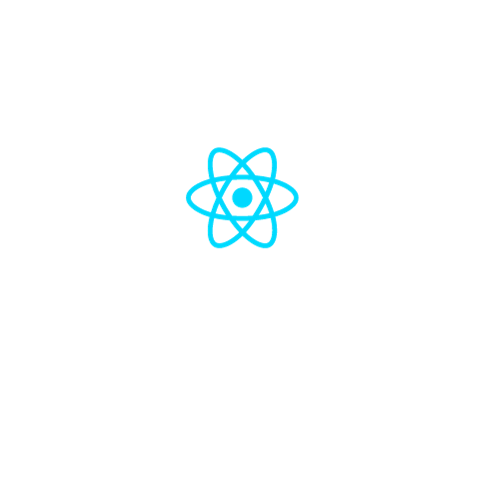
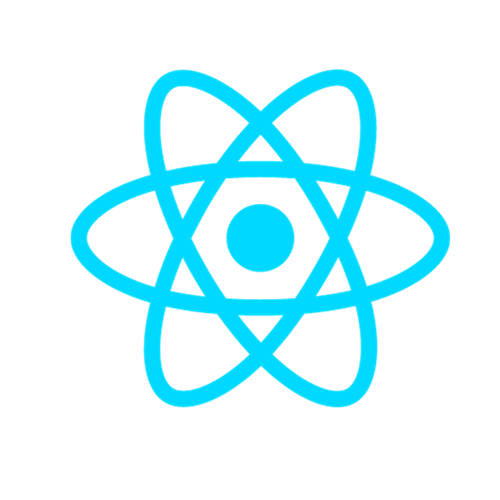
added 2 more circle

Changed region(s): [[0.12, 0.12, 0.9, 0.84]]

diff --git a/src/constants/images.js b/src/constants/images.js
@@ -22,7 +22,7 @@ import about01 from '../assets/about01.png';
 import about02 from '../assets/about02.png';
 import about03 from '../assets/about03.png';
 import about04 from '../assets/about04.png';
-
+import muIcon from '../assets/muIcons.png'
 import profile from '../assets/profile.png';
 import circle from '../assets/circle.svg';
 import logo from '../assets/logo.png';
@@ -34,8 +34,12 @@ import bolt from '../assets/bolt.png';
 import nb from '../assets/nb.png';
 import skype from '../assets/skype.png';
 import spotify from '../assets/spotify.png';
-
+import viteLogo from '../assets/viteLogo.png';
+import postgreslq from '../assets/postgresql.png'
 export default {
+  postgreslq,
+  viteLogo,
+  muIcon,
   trello,
   canva,
   email,

diff --git a/src/container/Header/Header.jsx b/src/container/Header/Header.jsx
@@ -56,7 +56,7 @@ const Header = () => {
         whileInView={scaleVariants.whileInView}
         className="app__header-circles"
       >
-        {[images.react, images.javascript,images.sass].map((circle, index) => (
+        {[images.react, images.viteLogo,images.muIcon,images.postgreslq].map((circle, index) => (
           <div className="circle-cmp app__flex" key={`circle-${index}`}>
             <img src={circle} alt="circle" />
           </div>

diff --git a/src/container/Header/Header.scss b/src/container/Header/Header.scss
@@ -112,8 +112,8 @@
         box-shadow: 0 0 20px rgba(0,0,0,0.1);
 
         img{
-            width: 900%;
-            height: 80px;
+            width: 80%;
+            height: 80%;
             border-radius: 50%;
         }
     }
